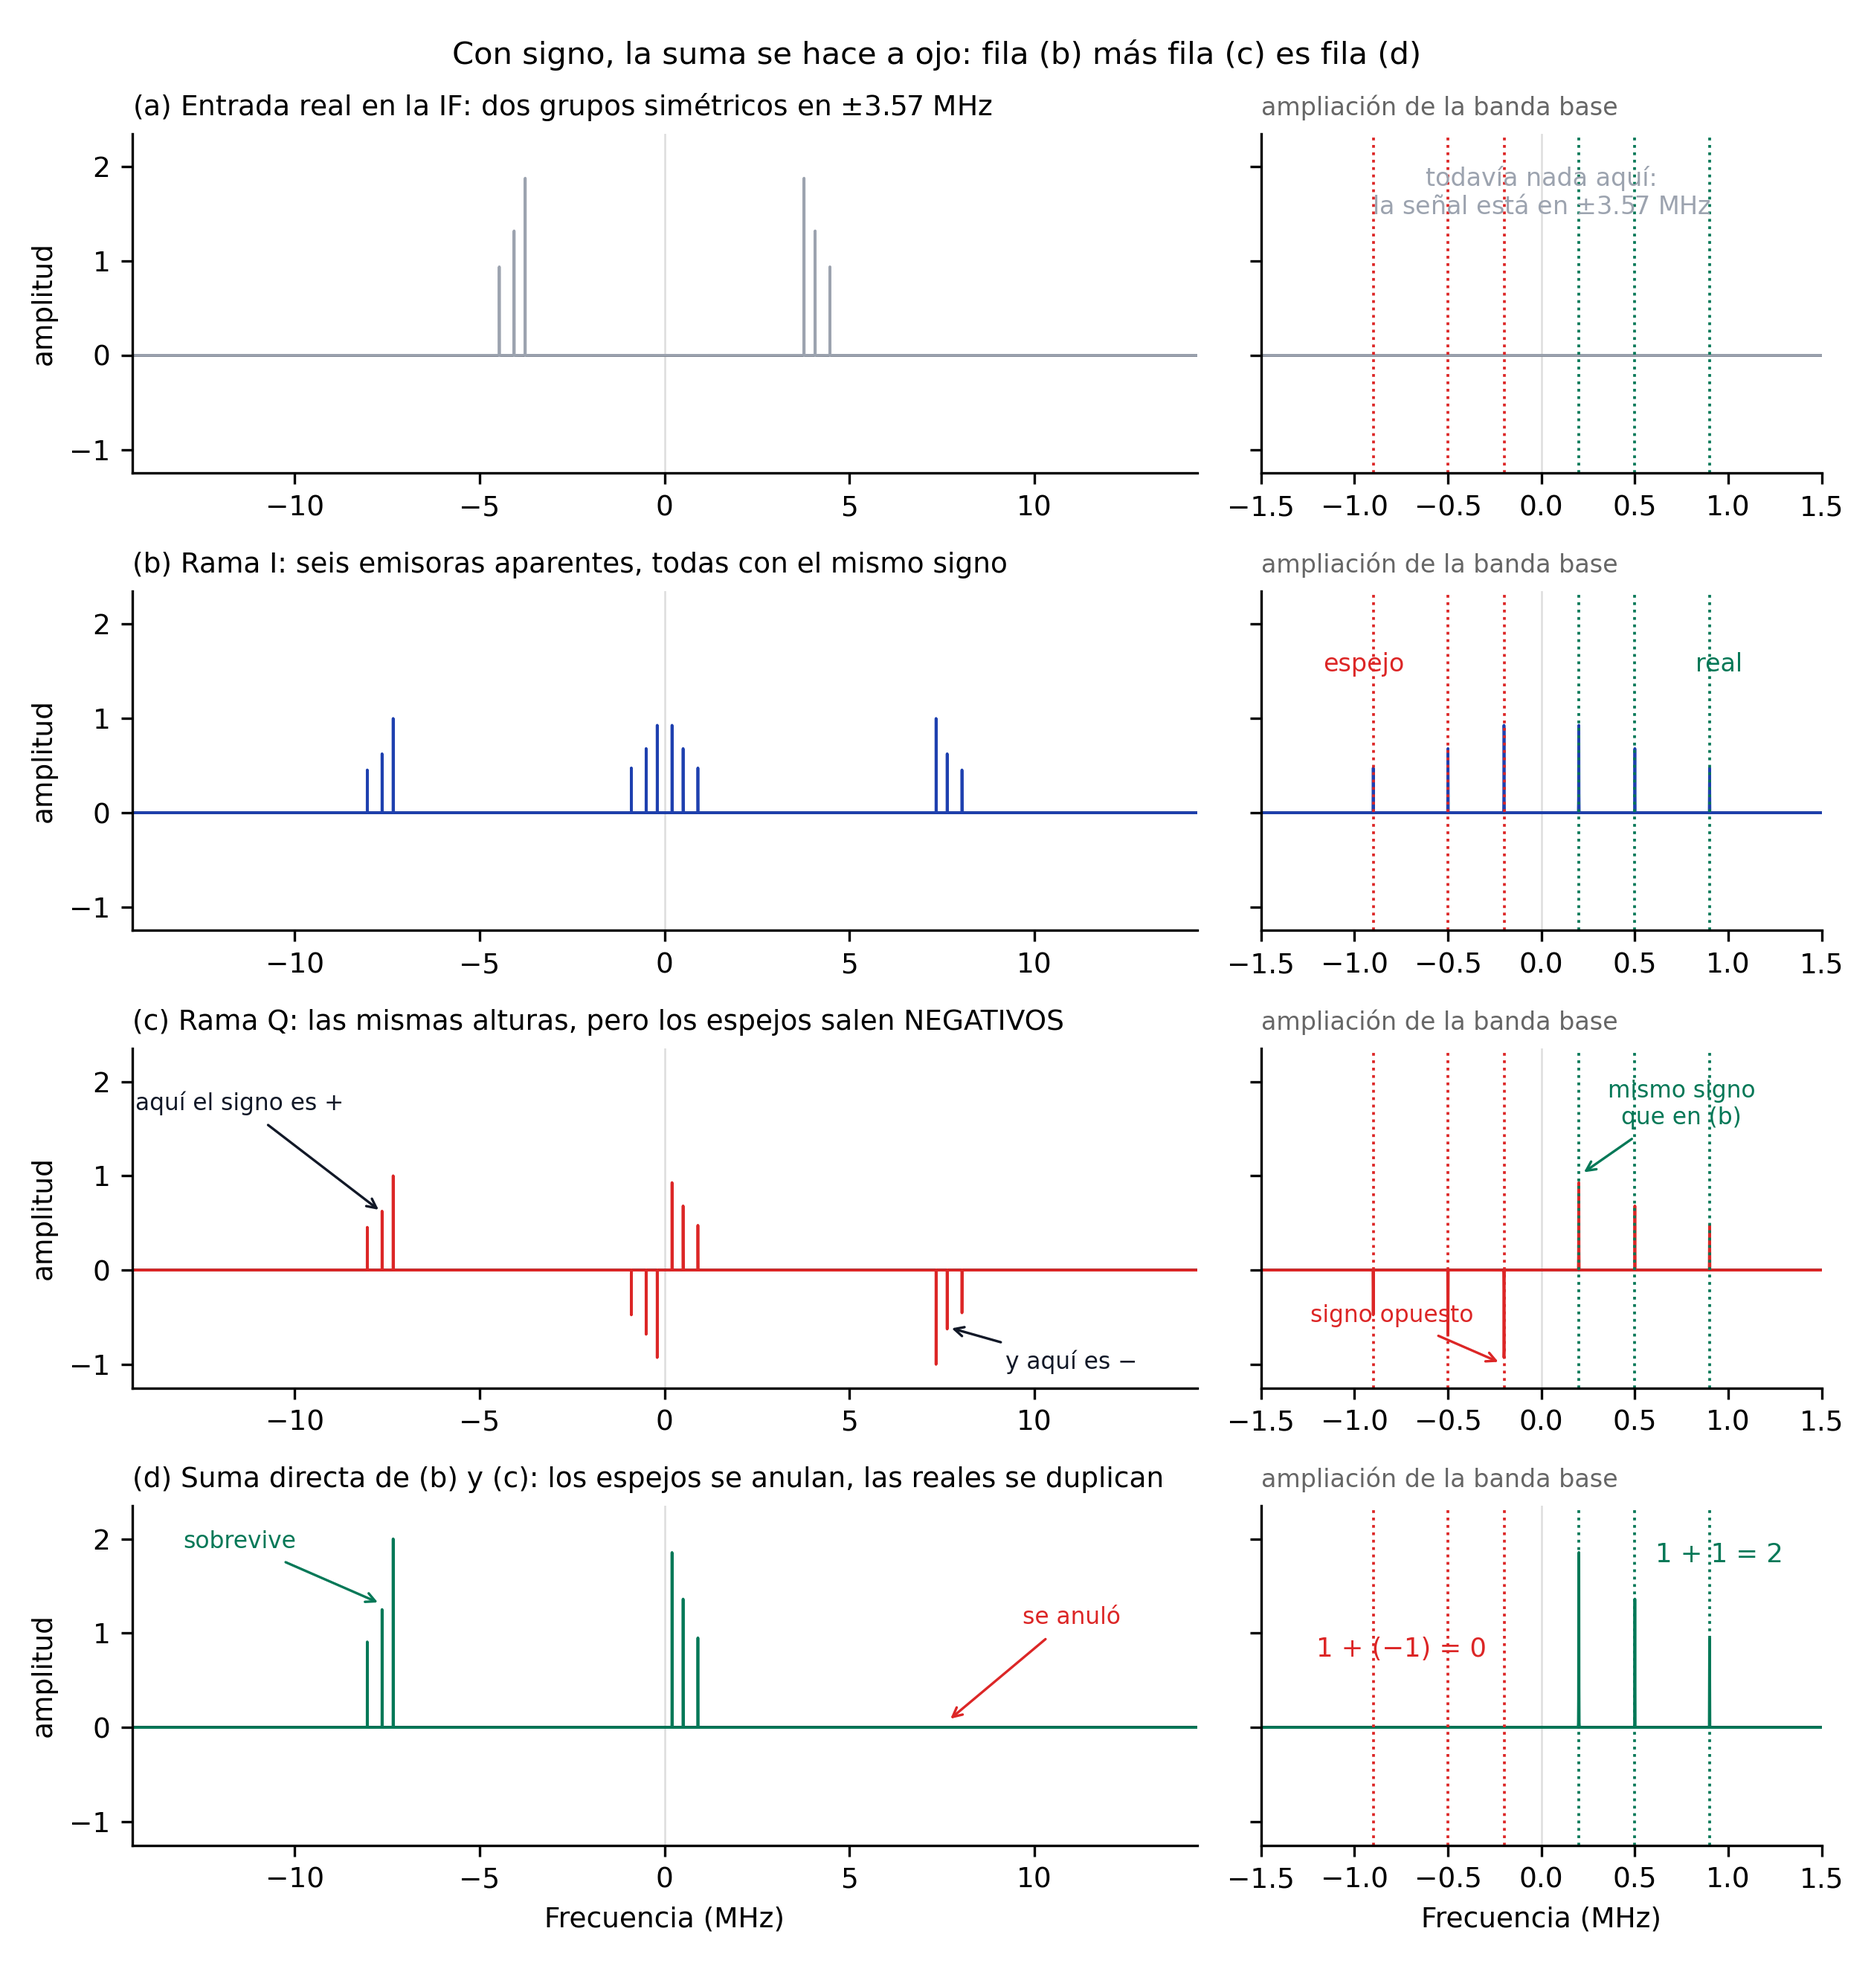
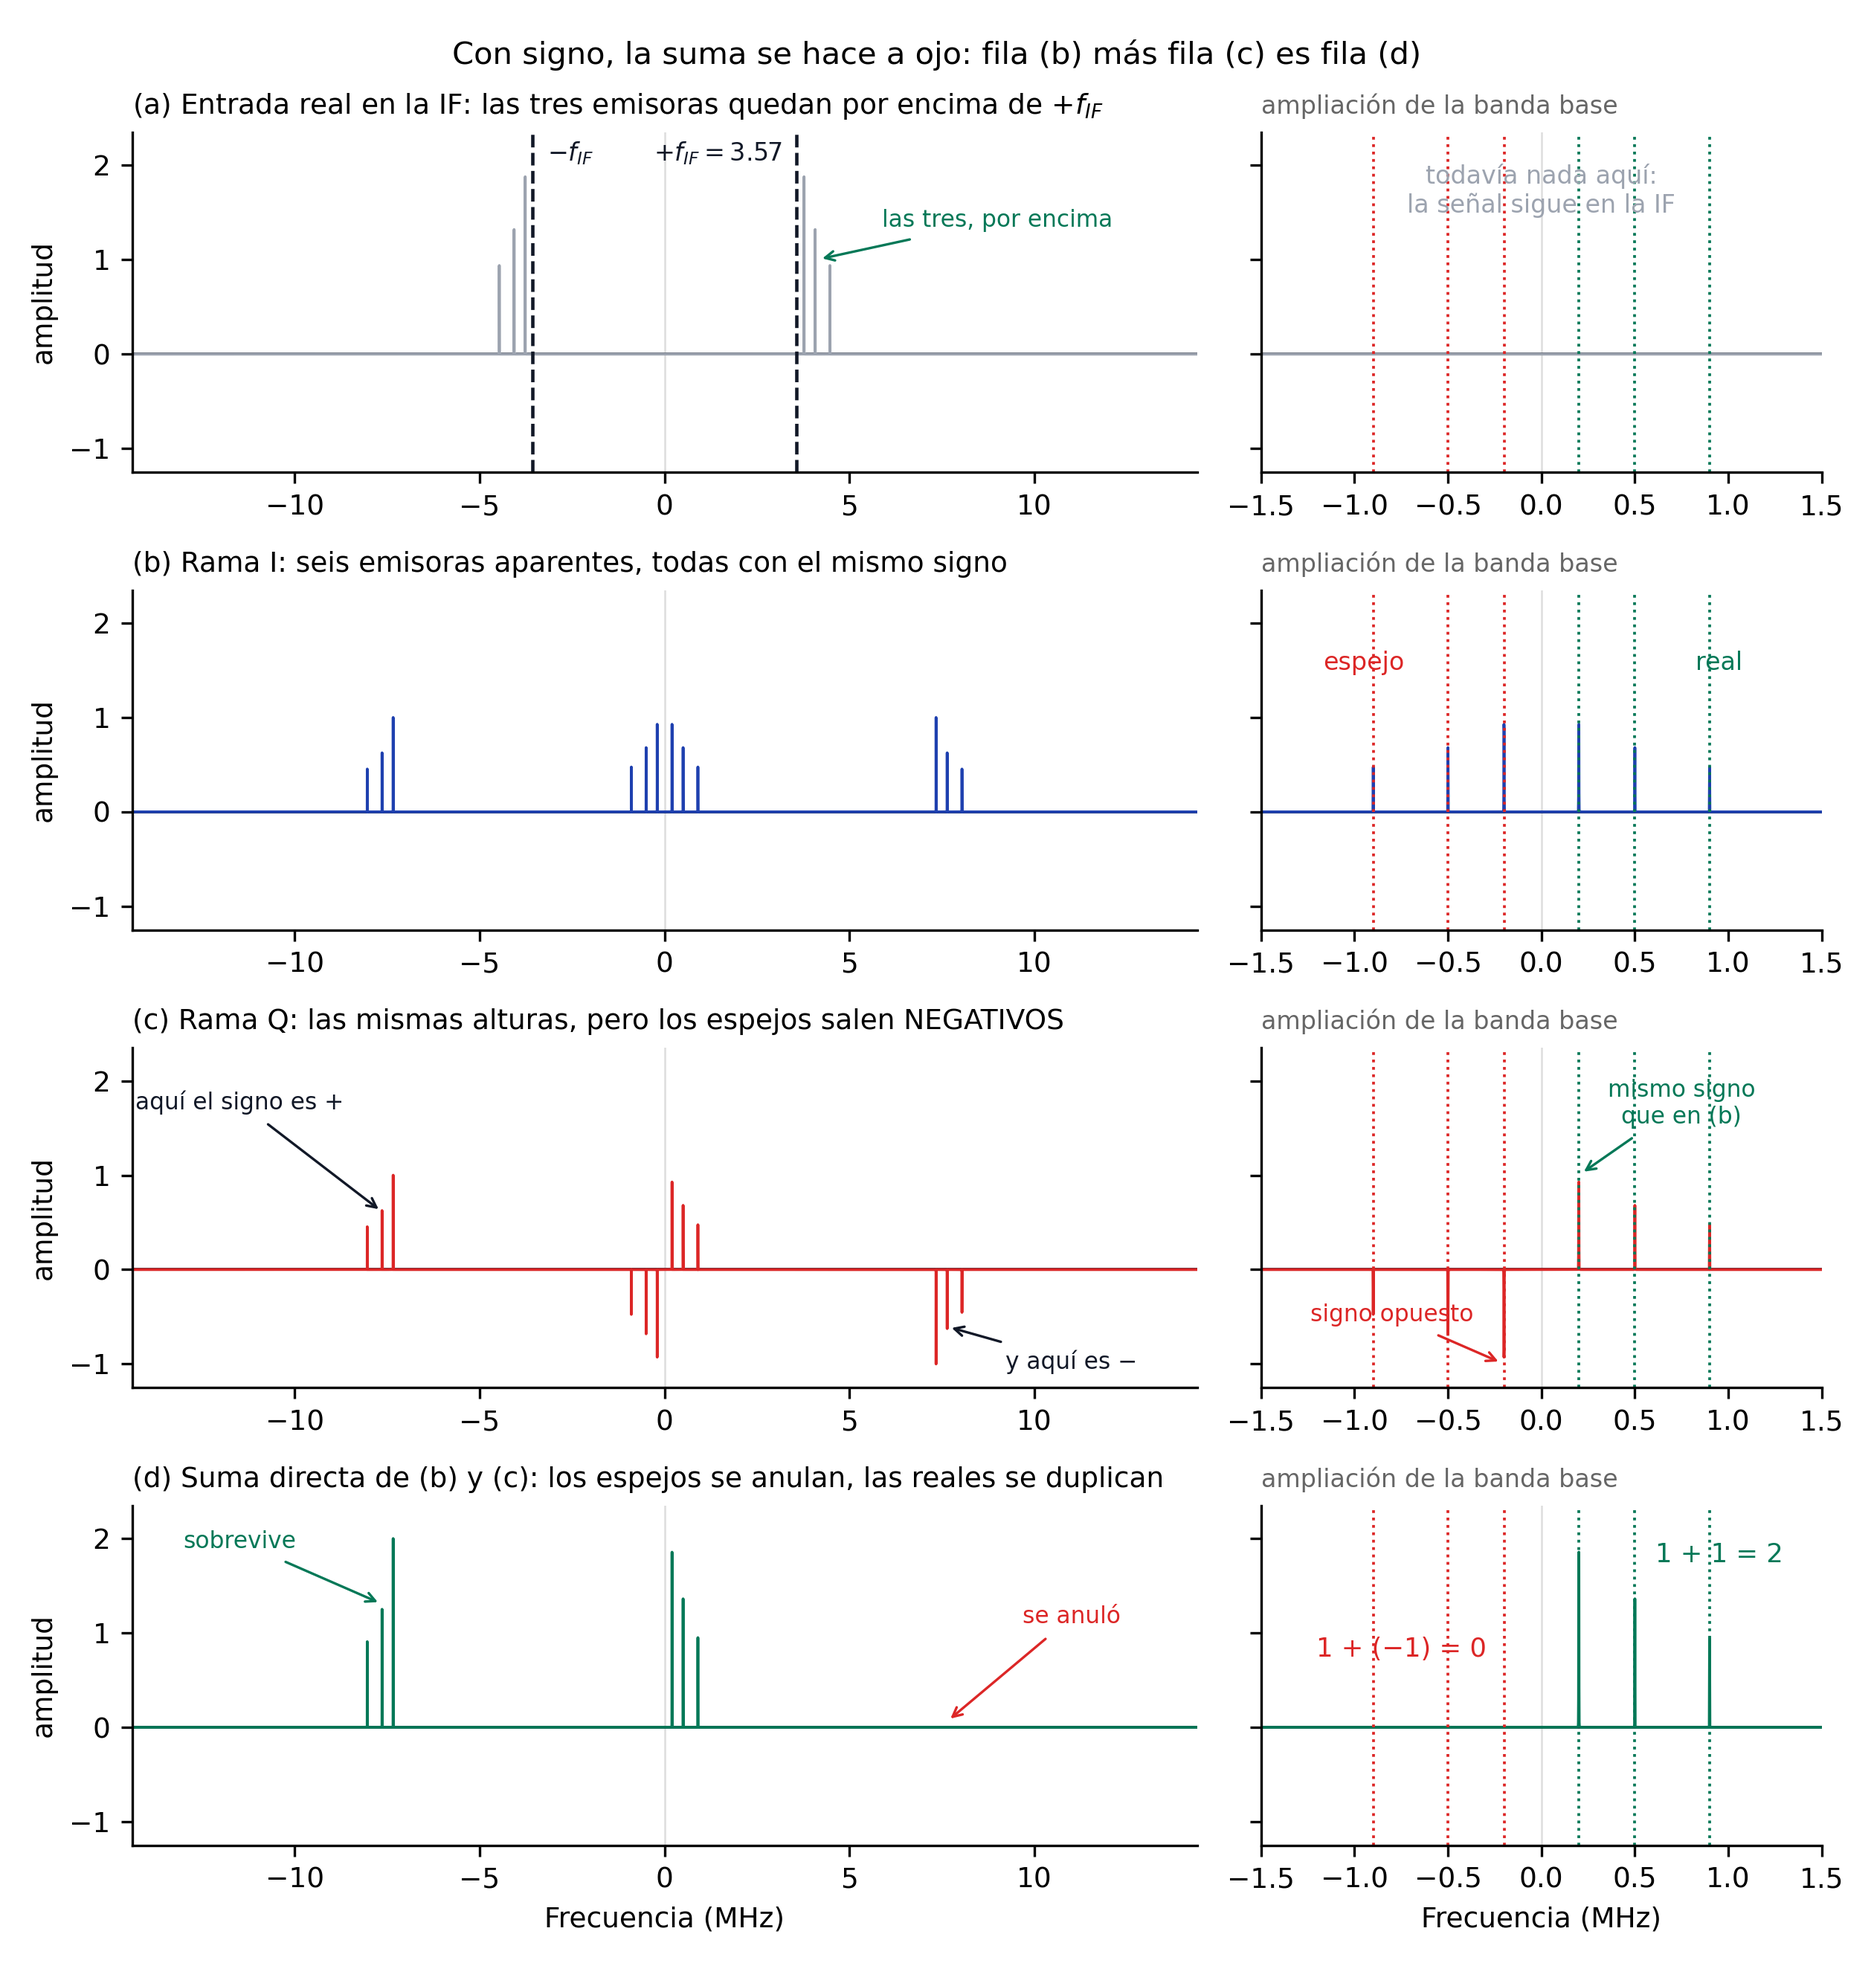
S01 Figura 12: relacionar el panel (a) con la cadena y avisar del cambio de escena
Dos problemas distintos que señaló el profesor.

El título de (a) decía 'dos grupos simétricos en +/-3.57 MHz', pero en
3.57 exacto no hay nada: las emisoras caen en 3.77, 4.07 y 4.47, por
encima de la referencia. Ahora la IF aparece como línea discontinua
etiquetada y el título dice dónde quedan las emisoras respecto a ella.

Más de fondo: la figura usa una escena distinta a la de las Figuras 6 a
11, que dibujan la banda de FM completa. Nota nueva que lo explica y
justifica. Con la banda real el espejo de la emisora en fc+0.4 cae justo
encima de la que está en fc-0.4, así que los espejos quedarían
escondidos bajo señales legítimas. Poner emisoras a un solo lado los
separa.

La nota cierra con lo que ese solapamiento significa fuera del papel:
en la banda real los espejos existen igual, solo que encima de otras
emisoras, y por eso la ambigüedad de una sola rama no es un detalle de
laboratorio.

Claude-Session: https://claude.ai/code/session_01FWTMM6jn922Bhyb4wQGuoU

diff --git a/docs/sessions/01-introduccion-sdr/figures/gen_cadena_rx.py b/docs/sessions/01-introduccion-sdr/figures/gen_cadena_rx.py
@@ -262,7 +262,7 @@ def fig_ramas_iq():
     escala = b.max()
     filas = [
         (np.abs(E["x"]) / escala, GRAY,
-         "(a) Entrada real en la IF: dos grupos simétricos en $\\pm 3.57$ MHz"),
+         "(a) Entrada real en la IF: las tres emisoras quedan por encima de $+f_{IF}$"),
         (b / escala, BLUE,
          "(b) Rama I: seis emisoras aparentes, todas con el mismo signo"),
         (c / escala, RED,
@@ -291,7 +291,16 @@ def fig_ramas_iq():
         ax[r, 0].set_title(titulo, fontsize=9, loc="left")
         ax[r, 1].set_title("ampliación de la banda base", fontsize=8, loc="left", color="#666")
 
-    ax[0, 1].text(0, 1.5, "todavía nada aquí:\nla señal está en $\\pm 3.57$ MHz",
+    for signo in (-1, 1):
+        ax[0, 0].axvline(signo * FIF, color=DARK, ls="--", lw=1.1)
+    ax[0, 0].annotate("$+f_{IF} = 3.57$", xy=(FIF, 2.0), xytext=(FIF - 0.4, 2.05),
+                      ha="right", fontsize=8, color=DARK)
+    ax[0, 0].annotate("$-f_{IF}$", xy=(-FIF, 2.0), xytext=(-FIF + 0.4, 2.05),
+                      ha="left", fontsize=8, color=DARK)
+    ax[0, 0].annotate("las tres, por encima", xy=(4.1, 1.0), xytext=(9.0, 1.35),
+                      fontsize=7.5, color=GREEN, ha="center",
+                      arrowprops=dict(arrowstyle="->", color=GREEN, lw=0.8))
+    ax[0, 1].text(0, 1.5, "todavía nada aquí:\nla señal sigue en la IF",
                   ha="center", fontsize=8, color=GRAY)
     ax[1, 1].text(-0.95, 1.5, "espejo", color=RED, fontsize=8, ha="center")
     ax[1, 1].text(+0.95, 1.5, "real", color=GREEN, fontsize=8, ha="center")

diff --git a/docs/sessions/01-introduccion-sdr/index.md b/docs/sessions/01-introduccion-sdr/index.md
@@ -330,7 +330,14 @@ El coseno y el seno digitales mantienen un desfase exacto de 90° y amplitudes i
 
 La Figura 10 mostró la cancelación con una sinusoide aislada. Conviene repetir el experimento sobre el caso real, porque revela algo más fuerte que «se cancela una copia»: **una sola rama no basta para saber dónde está una emisora**.
 
-El montaje es el siguiente. Se sintetiza una señal de paso banda real con tres emisoras situadas **solo por encima** de la frecuencia central, en $+0.2$, $+0.5$ y $+0.9$ MHz. Por debajo no hay ninguna. Luego se multiplica por $\cos$ y por $-\sin$, exactamente como hace el RTL2832U, y se comparan los tres espectros.
+El montaje es el siguiente. Se sintetiza una señal de paso banda real con tres emisoras situadas **solo por encima** de la frecuencia central, en $+0.2$, $+0.5$ y $+0.9$ MHz. Por debajo no hay ninguna. En la IF eso las coloca en 3.77, 4.07 y 4.47 MHz, todas por encima de la referencia de 3.57, con su grupo espejo en las posiciones negativas correspondientes. Luego se multiplica por $\cos$ y por $-\sin$, exactamente como hace el RTL2832U.
+
+!!! note "Esta figura usa una escena distinta a la de las Figuras 6 a 11, y es deliberado"
+    Las figuras del recorrido ① a ⑥ dibujan la banda de FM completa, con emisoras repartidas a ambos lados de $f_c$ cada 400 kHz. Esa escena es la realista, pero aquí sería inservible: al bajar a banda base, el espejo de la emisora que está en $f_c + 0.4$ cae justo encima de la que está en $f_c - 0.4$, donde ya hay una emisora de verdad. Los espejos quedarían escondidos debajo de señales legítimas y la figura no podría distinguirlos.
+
+    Poner emisoras a un solo lado los separa y los hace visibles. El precio es que la escena es artificial; la ventaja es que el mecanismo queda a la vista.
+
+    Y conviene no perder de vista lo que ese solapamiento significa en la banda real: **los espejos existen igual, solo que caen encima de otras emisoras**. Por eso la ambigüedad de una sola rama no es un detalle de laboratorio, sino la razón de que haga falta la segunda.
 
 Las cuatro filas están dibujadas en **amplitud lineal con signo**, no en decibelios. El logaritmo destruye el signo, y aquí el signo es toda la historia.
 
